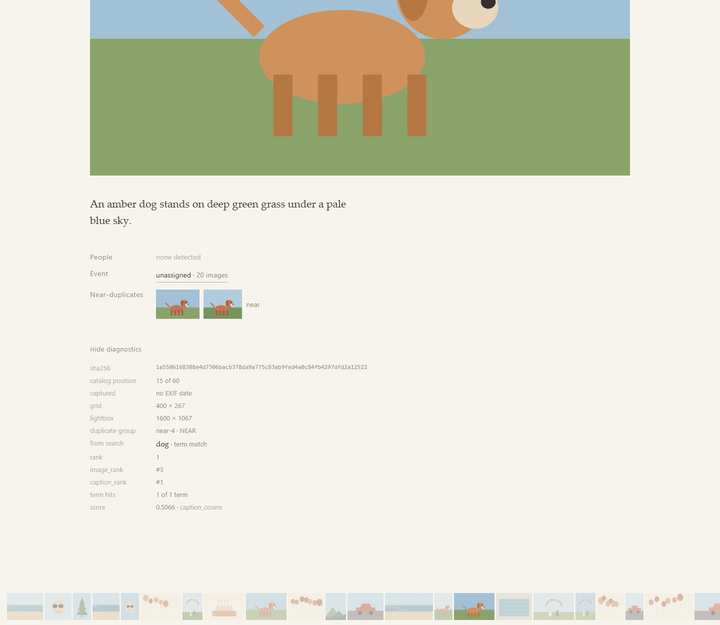
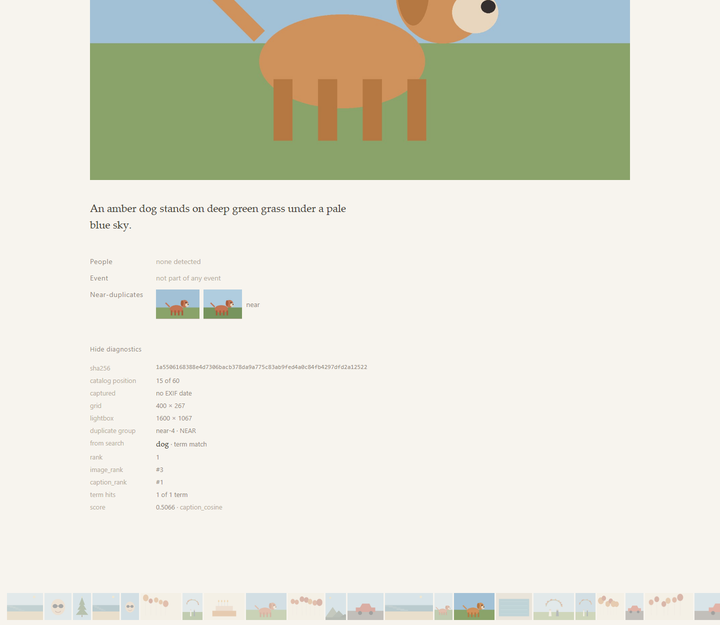
Stop the item page offering an event link that goes nowhere
Two cases where the event line described a relationship the photograph
does not have.

A singleton. 33 of the 83 events in this corpus hold exactly one image -
40% of events, 10% of images - because grouping splits on a 72-hour EXIF
gap and a lone photograph three days from its neighbours becomes its own
occasion. For those the line read:

  Dec 2002 · 2002-12-25 · 1 image

Every part of that is already on the page or empty. All 33 singletons
are named "Mon YYYY", derived from the capture date the page shows;
none of the 17 events with a real name from an email subject is a
singleton. The date is the capture date. The count is the photograph you
are looking at. And the link led to a grid holding only that photograph,
which contradicts what the item page is for: it exists to make every
relationship a way to leave, and for 40% of events it was a door onto
the room you were standing in.

The grouping is not the problem and is unchanged. A lone photograph from
an occasion genuinely is from that occasion - "Dec 2002" has thirteen
people in it, and May 2014 has fourteen, which puts them among the most
populated frames in the corpus. Measured against their neighbours, most
singletons are genuinely isolated rather than threshold artefacts: 16 of
33 sit one to six months from any other photograph, median 30 days,
though the closest sits 78 hours from one - six past the rule. Merging
that into a neighbour would assert something false. So the name and the
[…]

diff --git a/frontend/src/PhotoPage.tsx b/frontend/src/PhotoPage.tsx
@@ -7,6 +7,7 @@ import {
   type ImageDetail,
   type ImageRecord,
 } from './api'
+import { eventLine, type EventLine } from './eventLine'
 import { counted } from './plural'
 import { navigate } from './router'
 import { recallResult } from './searchMemory'
@@ -22,6 +23,48 @@ import { recallResult } from './searchMemory'
 
 /** How many neighbours either side to pull for the strip. */
 const REACH = 14
+
+/**
+ * A singleton is not linked. The link would return the reader to a grid
+ * holding the one photograph they are already on, which is a door onto
+ * the room they are standing in rather than a way out.
+ */
+function Event({ line }: { line: EventLine }) {
+  if (line.kind === 'none') {
+    return <span className="absent">not part of any event</span>
+  }
+
+  if (line.kind === 'alone') {
+    return (
+      <span>
+        {line.name}
+        <span className="aside">
+          {line.date ? ` · ${line.date}` : ''}
+          {' · the only photograph from it'}
+        </span>
+      </span>
+    )
+  }
+
+  const { event, date } = line
+
+  return (
+    <a
+      href={`/?event=${encodeURIComponent(event.id)}`}
+      onClick={(clicked) => {
+        clicked.preventDefault()
+        navigate(`/?event=${encodeURIComponent(event.id)}`)
+      }}
+    >
+      {event.name}
+      <span className="aside">
+        {date ? ` · ${date}` : ''}
+        {` · ${counted(event.images, 'image')}`}
+      </span>
+    </a>
+  )
+}
+
 
 function Related({ detail }: { detail: ImageDetail }) {
   const { people, event, duplicates } = detail
@@ -51,23 +94,7 @@ function Related({ detail }: { detail: ImageDetail }) {
 
       <dt>Event</dt>
       <dd>
-        {event ? (
-          <a
-            href={`/?event=${encodeURIComponent(event.id)}`}
-            onClick={(clicked) => {
-              clicked.preventDefault()
-              navigate(`/?event=${encodeURIComponent(event.id)}`)
-            }}
-          >
-            {event.name}
-            <span className="aside">
-              {event.start ? ` · ${event.start.slice(0, 10)}` : ''}
-              {` · ${counted(event.images, 'image')}`}
-            </span>
-          </a>
-        ) : (
-          <span className="absent">unassigned</span>
-        )}
+        <Event line={eventLine(event)} />
       </dd>
 
       <dt>Near-duplicates</dt>

diff --git a/frontend/src/eventLine.test.ts b/frontend/src/eventLine.test.ts
@@ -1,0 +1,75 @@
+import { describe, expect, it } from 'vitest'
+import { eventLine } from './eventLine'
+import type { EventSummary } from './api'
+
+function event(over: Partial<EventSummary>): EventSummary {
+  return {
+    id: 'event-001',
+    name: 'Dec 2002',
+    start: '2002-12-25',
+    end: '2002-12-25',
+    images: 4,
+    ...over,
+  }
+}
+
+describe('eventLine', () => {
+  it('links an event that holds more than one photograph', () => {
+    const line = eventLine(event({ images: 32 }))
+
+    expect(line.kind).toBe('event')
+  })
+
+  it('still links at two', () => {
+    // Two photographs from one afternoon is a real occasion, and the
+    // link goes somewhere. The argument was never about size.
+    expect(eventLine(event({ images: 2 })).kind).toBe('event')
+  })
+
+  it('does not link a singleton', () => {
+    // The link would return the reader to a grid holding the one
+    // photograph they are already looking at.
+    const line = eventLine(event({ images: 1 }))
+
+    expect(line.kind).toBe('alone')
+  })
+
+  it('keeps a singleton name and date', () => {
+    // "Dec 2002" with thirteen people in it is a real occasion; the
+    // corpus holding one photograph of it does not make it less real.
+    const line = eventLine(event({ images: 1 }))
+
+    expect(line).toEqual({
+      kind: 'alone',
+      name: 'Dec 2002',
+      date: '2002-12-25',
+    })
+  })
+
+  it('drops the count from a singleton', () => {
+    // "1 image" was a tautology: this photograph is one photograph.
+    const line = eventLine(event({ images: 1 }))
+
+    expect(JSON.stringify(line)).not.toContain('image')
+  })
+
+  it('survives an event with no start date', () => {
+    expect(eventLine(event({ images: 1, start: null }))).toEqual({
+      kind: 'alone',
+      name: 'Dec 2002',
+      date: null,
+    })
+  })
+
+  it('reports no event at all as absent', () => {
+    // The API returns null for the unassigned bucket too, because
+    // being undated is not an occasion 118 photographs share.
+    expect(eventLine(null)).toEqual({ kind: 'none' })
+  })
+
+  it('treats a zero-image event as alone rather than as a link', () => {
+    // Should not arise, but a link to an empty grid is the worse of
+    // the two failures.
+    expect(eventLine(event({ images: 0 })).kind).toBe('alone')
+  })
+})

diff --git a/frontend/src/eventLine.ts b/frontend/src/eventLine.ts
@@ -1,0 +1,43 @@
+import type { EventSummary } from './api'
+
+/**
+ * What the item page should say about this photograph's event.
+ *
+ * Three cases, because an event of one is a different kind of thing
+ * from an event of thirty-two, and rendering them identically is what
+ * produced "1 images".
+ *
+ * A singleton keeps its name and date - "Dec 2002" with thirteen people
+ * in it is a real occasion, and the corpus holding one photograph of it
+ * does not make it less real. What it loses is the link and the count.
+ * The count was a tautology: the line said this photograph, taken when
+ * it was taken, is one photograph. The link was worse - the item page
+ * exists to make every relationship a way to leave, and for 40% of the
+ * events in this corpus it led to a grid holding only the photograph
+ * you were already looking at.
+ *
+ * `null` is the absence of an event, which the API now also returns for
+ * the unassigned bucket. That bucket is where an image goes when it has
+ * no capture time and no unambiguous thread, so it is not an occasion
+ * 118 photographs share.
+ */
+export type EventLine =
+  | { kind: 'none' }
+  | { kind: 'alone'; name: string; date: string | null }
+  | { kind: 'event'; event: EventSummary; date: string | null }
+
+function dateOf(event: EventSummary): string | null {
+  return event.start ? event.start.slice(0, 10) : null
+}
+
+export function eventLine(event: EventSummary | null): EventLine {
+  if (!event) {
+    return { kind: 'none' }
+  }
+
+  if (event.images <= 1) {
+    return { kind: 'alone', name: event.name, date: dateOf(event) }
+  }
+
+  return { kind: 'event', event, date: dateOf(event) }
+}

diff --git a/tests/test_api.py b/tests/test_api.py
@@ -622,3 +622,50 @@ def test_the_item_endpoint_leaks_no_source_path(client, related):
 
     assert "/photos/" not in raw
     assert "source_path" not in raw
+
+
+def test_the_unassigned_bucket_is_not_reported_as_an_event(
+    tmp_path, monkeypatch
+):
+    """118 undated images are not an occasion 118 photographs share.
+
+    The bucket is where an image goes when it has no capture time and no
+    unambiguous thread, so membership of it is the absence of an event.
+    Reported as one, it put a link on the item page to 118 photographs
+    whose only relation to this one is that none could be dated.
+    """
+    path = tmp_path / "events.csv"
+    path.write_text(
+        "event_id,event_name,event_start,event_end,image_count,"
+        "date_source,source_path,filename,capture_time,gmail_subject,"
+        "gmail_thread_id\n"
+        "event-001,Fixture Picnic,2020-06-01,2020-06-01,1,exif,"
+        "img1.jpg,img1.jpg,2020-06-01T10:00:00,,\n"
+        "unassigned,unassigned,,,2,none,img7.jpg,img7.jpg,,,\n"
+        "unassigned,unassigned,,,2,none,img8.jpg,img8.jpg,,,\n",
+        encoding="utf-8",
+    )
+    monkeypatch.setattr(api.events, "EVENTS", path)
+
+    assert api.event_of("img7.jpg") is None
+    assert api.event_of("img8.jpg") is None
+    # A real event still reports, and still carries its count.
+    assert api.event_of("img1.jpg")["name"] == "Fixture Picnic"
+
+
+def test_the_unassigned_bucket_stays_in_the_roster(tmp_path, monkeypatch):
+    """"Everything undated" is a real question, so it stays filterable.
+
+    Only membership is suppressed, not the bucket itself.
+    """
+    path = tmp_path / "events.csv"
+    path.write_text(
+        "event_id,event_name,event_start,event_end,image_count,"
+        "date_source,source_path,filename,capture_time,gmail_subject,"
+        "gmail_thread_id\n"
+        "unassigned,unassigned,,,1,none,img7.jpg,img7.jpg,,,\n",
+        encoding="utf-8",
+    )
+    monkeypatch.setattr(api.events, "EVENTS", path)
+
+    assert [e["id"] for e in api.events.roster()] == ["unassigned"]

diff --git a/src/visualmind/api.py b/src/visualmind/api.py
@@ -269,8 +269,20 @@ def event_of(path):
     An image belongs to exactly one event, which is why this returns a
     single value rather than a list - the same reason events compose as
     a union in the search filter.
+
+    The unassigned bucket is not one of them. It is where images go when
+    there is no capture time and no unambiguous thread to place them by,
+    which makes it the absence of an event rather than an event that 118
+    photographs share. Returning it here put a link on the item page to
+    118 images whose only relation to this one is that none of them
+    could be dated. It stays in the roster and stays filterable, because
+    "show me everything undated" is a real question - it just is not a
+    membership this photograph has.
     """
     for entry in events.index().values():
+        if entry["id"] == events.UNASSIGNED:
+            continue
+
         if path in entry["paths"]:
             return {
                 "id": entry["id"],

diff --git a/src/visualmind/events.py b/src/visualmind/events.py
@@ -40,6 +40,13 @@ class UnknownEvent(Exception):
         super().__init__("no event matching '" + query + "'")
 
 
+# Where images go when they have no capture time and no unambiguous
+# thread to place them by. It is a bucket, not an occasion, and callers
+# that ask "which event is this in" have to say so rather than matching
+# the string themselves.
+UNASSIGNED = "unassigned"
+
+
 def available():
     return EVENTS.exists()
 
@@ -79,7 +86,7 @@ def roster():
 
     return sorted(
         entries,
-        key=lambda e: (e["id"] == "unassigned", e["start"] or ""),
+        key=lambda e: (e["id"] == UNASSIGNED, e["start"] or ""),
         reverse=True,
     )
 
